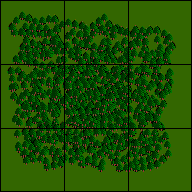
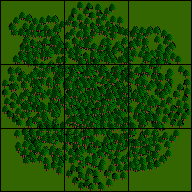
Added propper Forest Images

diff --git a/map/MapImage.java b/map/MapImage.java
@@ -47,14 +47,27 @@ public class MapImage implements ImageObserver {
 	private static BufferedImage forestImage192;
 	private static BufferedImage forestImageLeftRight;
 	private static BufferedImage forestImageTopBottom;
+	private static BufferedImage forestImageEndBottom;
+	private static BufferedImage forestImageEndLeft;
+	private static BufferedImage forestImageEndTop;
+	private static BufferedImage forestImageEndRight;
 
 	public MapImage(int width, int height) {
 		try {
 			plainImage = ImageIO.read( Boot.class.getResource("/resources/plain.png") );
+			
+			// Forest
 			forestImage = ImageIO.read( Boot.class.getResource("/resources/forest.png") );
 			forestImage192 = ImageIO.read( Boot.class.getResource("/resources/forest192.png") );
+			
 			forestImageLeftRight = ImageIO.read( Boot.class.getResource("/resources/forestLeftRight.png") );
 			forestImageTopBottom = ImageIO.read( Boot.class.getResource("/resources/forestTopBottom.png") );
+			
+			forestImageEndBottom = ImageIO.read( Boot.class.getResource("/resources/forestEndBottom.png") );
+			forestImageEndLeft = ImageIO.read( Boot.class.getResource("/resources/forestEndLeft.png") );
+			forestImageEndTop = ImageIO.read( Boot.class.getResource("/resources/forestEndTop.png") );
+			forestImageEndRight = ImageIO.read( Boot.class.getResource("/resources/forestEndRight.png") );
+			
 		} catch (IOException e) {
 		}
 
@@ -192,10 +205,10 @@ public class MapImage implements ImageObserver {
 			
 			//LEFT TO RIGHT
 			if(!top && right && !bottom && !left) {
-				return forestImage192.getSubimage(0, 64, 64, 64);
+				return forestImageEndLeft;
 			}
 			if(!top && !right && !bottom && left) {
-				return forestImage192.getSubimage(128, 64, 64, 64);
+				return forestImageEndRight;
 			}
 			if(!top && right && !bottom && left) {
 				return forestImageLeftRight;
@@ -203,10 +216,10 @@ public class MapImage implements ImageObserver {
 			
 			//TOP TO BOTTOM
 			if(!top && !right && bottom && !left) {
-				return forestImage192.getSubimage(64, 0, 64, 64);
+				return forestImageEndTop;
 			}
 			if(top && !right && !bottom && !left) {
-				return forestImage192.getSubimage(64, 128, 64, 64);
+				return forestImageEndBottom;
 			}
 			if(top && !right && bottom && !left) {
 				return forestImageTopBottom;

diff --git a/frame/gamePanels/SelectionPanel.java b/frame/gamePanels/SelectionPanel.java
@@ -94,7 +94,6 @@ public class SelectionPanel extends JScrollPane {
 		if(ObjectMap.getSelected().getSelectionMode() == 3 || ObjectMap.getSelected().getSelectionMode() == 5) {
 			lblSelectMenu.setText("Select Target Menu");
 			// TODO remove currently selected entity from list
-			// TODO Add flag if they can't be selected (enemies)
 			
 		}
 		lblSelectMenu.setForeground(Color.LIGHT_GRAY);
